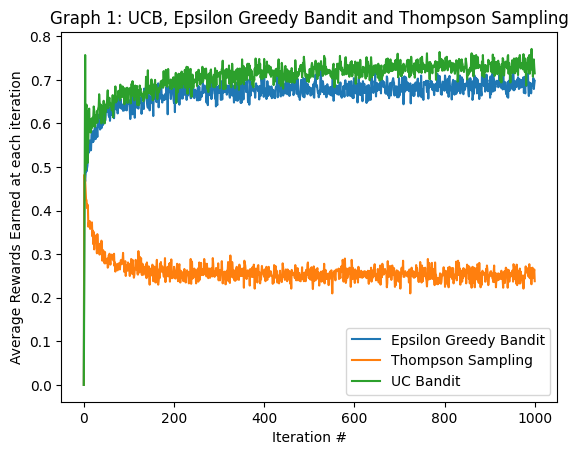
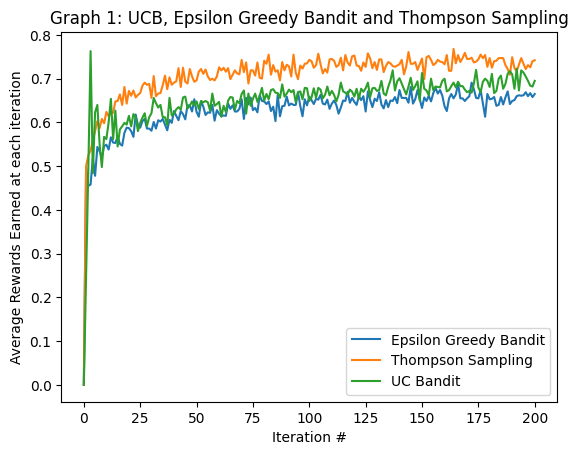
Updated code for A2 part1

diff --git a/A2/RL2.py b/A2/RL2.py
@@ -41,18 +41,19 @@ class RL2:
         Inputs:
         nIterations -- # of arms that are pulled
 
-        Outputs: 
-        empiricalMeans -- empirical average of rewards for each arm (array of |A| entries)
+        Output:
+        rewards_earned -- total rewards earned in each of the iterations (array of |nIterations+1| entries). Entry 0
+        corresponds to 0th iteration, 1 corresponds to 1st iteration, and n+1th entry corresponds to nth iteration
         '''
 
         # temporary values to ensure that the code compiles until this
         # function is coded
-        empiricalMeans = np.zeros(self.mdp.nActions)
+
+        empirical_mean = np.zeros(self.mdp.nActions)
         state = 0
         n_a = np.zeros(self.mdp.nActions)  # Counts current number of times action a is selected.
 
         rewards_earned = np.zeros(nIterations + 1)
-        V = rewards_earned[0]   #Total Reward
 
         for iteration in range(1, (nIterations + 1)):
             epsilon = (1 / iteration)
@@ -60,21 +61,15 @@ class RL2:
             if p < epsilon:
                 action = np.random.randint(self.mdp.nActions)
             else:
-                action = np.argmax(empiricalMeans)
+                action = np.argmax(empirical_mean)
 
-            [reward, nextState] = self.sampleRewardAndNextState(state, action)
-
-            # Updating empirical mean for selected action with new reward
-            previous_total_reward_for_action = (n_a[action] * empiricalMeans[action])
-            updated_total_reward_for_action = (previous_total_reward_for_action + reward)
+            reward, _ = self.sampleRewardAndNextState(state, action)
+            empirical_mean[action] = (((n_a[action] * empirical_mean[action]) + reward) / (n_a[action] + 1))
             n_a[action] = n_a[action] + 1  # updating number of times the selected action was encountered.
-            new_empirical_mean_for_action = updated_total_reward_for_action / n_a[action]
-            empiricalMeans[action] = new_empirical_mean_for_action
-            # print("Updated Empirical Means: " + str(empiricalMeans))
             rewards_earned[iteration] = reward          #Keeping track of reward earned at iteration
-            V += rewards_earned[iteration]
 
-        return empiricalMeans, rewards_earned, V
+        return rewards_earned
+
 
     def thompsonSamplingBandit(self, prior, nIterations, k=1):
         '''Thompson sampling algorithm for Bernoulli bandits (assume no discount factor)
@@ -84,20 +79,19 @@ class RL2:
         nIterations -- # of arms that are pulled
         k -- # of sampled average rewards
 
-        Outputs: 
-        empiricalMeans -- empirical average of rewards for each arm (array of |A| entries)
+        Output:
+        rewards_earned -- total rewards earned in each of the iterations (array of |nIterations+1| entries). Entry 0
+        corresponds to 0th iteration, 1 corresponds to 1st iteration, and n+1th entry corresponds to nth iteration
         '''
 
         # temporary values to ensure that the code compiles until this
         # function is coded
-        empiricalMeans = np.zeros(self.mdp.nActions)
+
         state = 0
         rewards_earned = np.zeros(nIterations + 1)
-        n_a = np.zeros(self.mdp.nActions)  # Counts current number of times action a is selected.
-        V = rewards_earned[0]  # Total Reward
 
         for iteration in range(1, nIterations + 1):
-            R_hat = np.zeros(self.mdp.nActions)
+            empirical_mean = np.zeros(self.mdp.nActions)
             for a in range(self.mdp.nActions):
                 k_sample_rewards_for_action_a = np.random.beta(a=prior[a, 0],
                                                                # Alpha hyperparameter for beta distribution for arm a
@@ -106,26 +100,19 @@ class RL2:
                                                                size=k  # number of sampled average rewards
                                                                )  # Sample k rewards from beta distribution for action a.
 
-                R_hat[a] = np.mean(k_sample_rewards_for_action_a)  # Estimate empirical average of K sample
+                empirical_mean[a] = np.mean(k_sample_rewards_for_action_a)  # Estimate empirical average of K sample
                 # rewards for action a
 
-            action = np.argmax(R_hat)  #choose the best action
-            [reward, nextState] = self.sampleRewardAndNextState(state, action)  #Select the reward for the best action
-
-            # Updating empirical mean for selected action with new reward
-            previous_total_reward_for_action = (n_a[action] * empiricalMeans[action])
-            updated_total_reward_for_action = (previous_total_reward_for_action + reward)
-            n_a[action] = n_a[action] + 1  # updating number of times the selected action was encountered.
-            new_empirical_mean_for_action = updated_total_reward_for_action / n_a[action]
-            empiricalMeans[action] = new_empirical_mean_for_action
-
+            action = np.argmax(empirical_mean)  #choose the best action
+            reward, _ = self.sampleRewardAndNextState(state, action)  #Select the reward for the best action
             rewards_earned[iteration] = reward
-            V += rewards_earned[iteration]
-
-            prior[action, reward] += 1     # Reward always between 0 and 1, we update the prior of the best
+            hyperparameter = (1-reward)  #If reward = 1, hyperparameter = (1-reward) = 0, alpha hyperparameter.
+                                         #If reward = 0, hyperparameter = (1-reward) = 1, beta hyperparameter
+            prior[action, hyperparameter] += 1     # Reward always between 0 and 1, we update the prior of the best
             # action based on the reward
 
-        return empiricalMeans, rewards_earned, V
+        return rewards_earned
+
 
     def UCBbandit(self, nIterations):
         '''Upper confidence bound algorithm for bandits (assume no discount factor)
@@ -133,35 +120,25 @@ class RL2:
         Inputs:
         nIterations -- # of arms that are pulled
 
-        Outputs: 
-        empiricalMeans -- empirical average of rewards for each arm (array of |A| entries)
+        Output:
+        rewards_earned -- total rewards earned in each of the iterations (array of |nIterations+1| entries). Entry 0
+        corresponds to 0th iteration, 1 corresponds to 1st iteration, and n+1th entry corresponds to nth iteration
         '''
 
-        # temporary values to ensure that the code compiles until this
-        # function is coded
-        empiricalMeans = np.zeros(self.mdp.nActions)
+
+        empirical_mean = np.zeros(self.mdp.nActions)
         state = 0
         n_a = np.zeros(self.mdp.nActions)  # Counts current number of times action a is selected.
-
         rewards_earned = np.zeros(nIterations + 1)
-        V = rewards_earned[0]  # Total Reward
-
         epsilon = (10 ** -8)  # To avoid overflow issues.
 
         for iteration in range(1, nIterations + 1):
             n = iteration#(iteration-1)+epsilon
-            action = np.argmax((empiricalMeans + (np.sqrt(2 * np.log(n) / (n_a + epsilon)))))
-
-            [reward, nextState] = self.sampleRewardAndNextState(state, action)
-
-            # Updating empirical mean for selected action with new reward
-            previous_total_reward_for_action = (n_a[action] * empiricalMeans[action])
-            updated_total_reward_for_action = (previous_total_reward_for_action + reward)
+            action = np.argmax((empirical_mean + (np.sqrt(2 * np.log(n) / (n_a + epsilon)))))
+            reward, _ = self.sampleRewardAndNextState(state, action)
+            empirical_mean[action] = (((n_a[action] * empirical_mean[action]) + reward)/(n_a[action]+1))
             n_a[action] = n_a[action] + 1  # updating number of times the selected action was encountered.
-            new_empirical_mean_for_action = updated_total_reward_for_action / n_a[action]
-            empiricalMeans[action] = new_empirical_mean_for_action
-            # print("Updated Empirical Means: " + str(empiricalMeans))
             rewards_earned[iteration] = reward
-            V += rewards_earned[iteration]
 
-        return empiricalMeans, rewards_earned, V
+        return rewards_earned
+

diff --git a/A2/TestBandit.py b/A2/TestBandit.py
@@ -1,7 +1,6 @@
 import numpy as np
 import MDP
 import RL2
-import matplotlib.pyplot as plt
 
 
 def sampleBernoulli(mean):
@@ -14,68 +13,28 @@ def sampleBernoulli(mean):
     sample -- sample (0 or 1)
     '''
 
-    if np.random.rand(1) < mean:
-        return 1
-    else:
-        return 0
+    if np.random.rand(1) < mean: return 1
+    else: return 0
 
 
 # Multi-arm bandit problems (3 arms with probabilities 0.25, 0.5 and 0.75)
-T = np.array([[[1]], [[1]], [[1]]])
-R = np.array([[0.25], [0.5], [0.75]])
+T = np.array([[[1]],[[1]],[[1]]])
+R = np.array([[0.25],[0.5],[0.75]])
 discount = 0.999
-mdp = MDP.MDP(T, R, discount)
-banditProblem = RL2.RL2(mdp, sampleBernoulli)
+mdp = MDP.MDP(T,R,discount)
+banditProblem = RL2.RL2(mdp,sampleBernoulli)
 
+# Test epsilon greedy strategy
+empiricalMeans,_,_ = banditProblem.epsilonGreedyBandit(nIterations=100000)
+print("\nepsilonGreedyBandit results")
+print(empiricalMeans)
 
-fig = plt.figure()
-plt.title("Graph 1: UCB, Epsilon Greedy Bandit and Thompson Sampling")
-plt.xlabel("Iteration #")
-plt.ylabel("Average Rewards Earned at each iteration")
+# Test Thompson sampling strategy
+empiricalMeans,_,_ = banditProblem.thompsonSamplingBandit(prior=np.ones([mdp.nActions,2]),nIterations=100000)
+print("\nthompsonSamplingBandit results")
+print(empiricalMeans)
 
-#Epsilon greedy strategy Graph Generation
-TRIALS = 1000
-N_ITERATIONS = 200
-
-average_rewards = None
-for i in range(1,(TRIALS+1)):
-    empiricalMeans, rewards, V = banditProblem.epsilonGreedyBandit(nIterations=N_ITERATIONS)
-    if average_rewards is None:
-        average_rewards = rewards
-    else:
-        average_rewards = (((average_rewards * (i-1)) + rewards) / i)
-
-plt.plot(range(len(average_rewards)), average_rewards, label= "Epsilon Greedy Bandit")
-
-#thompsonSamplingBandit Graph generation
-
-average_rewards = None
-for i in range(1,(TRIALS+1)):
-    empiricalMeans, rewards, V = banditProblem.thompsonSamplingBandit(prior=np.ones([mdp.nActions,2]),nIterations=N_ITERATIONS)
-    if average_rewards is None:
-        average_rewards = rewards
-    else:
-        average_rewards = (((average_rewards * (i-1)) + rewards) / i)
-
-plt.plot(range(len(average_rewards)), average_rewards, label= "Thompson Sampling")
-
-#UC Bandit Graph generation
-
-average_rewards = None
-for i in range(1,(TRIALS+1)):
-    empiricalMeans, rewards, V = banditProblem.UCBbandit(nIterations=N_ITERATIONS)
-    if average_rewards is None:
-        average_rewards = rewards
-    else:
-        average_rewards = (((average_rewards * (i-1)) + rewards) / i)
-
-#Generates log curve
-plt.plot(range(len(average_rewards)), average_rewards, label= "UC Bandit")
-
-
-plt.legend(loc='best')
-plt.savefig('A2_Part1.png', bbox_inches='tight')
-plt.show()
-plt.close()
-plt.cla()
-plt.clf()
+# Test UCB strategy
+empiricalMeans,_,_ = banditProblem.UCBbandit(nIterations=100000)
+print("\nUCBbandit results")
+print(empiricalMeans)

diff --git a/A2/TestBandit_GraphGen.py b/A2/TestBandit_GraphGen.py
@@ -1,0 +1,81 @@
+import numpy as np
+import MDP
+import RL2
+import matplotlib.pyplot as plt
+
+
+def sampleBernoulli(mean):
+    ''' function to obtain a sample from a Bernoulli distribution
+
+    Input:
+    mean -- mean of the Bernoulli
+    
+    Output:
+    sample -- sample (0 or 1)
+    '''
+
+    if np.random.rand(1) < mean:
+        return 1
+    else:
+        return 0
+
+
+# Multi-arm bandit problems (3 arms with probabilities 0.25, 0.5 and 0.75)
+T = np.array([[[1]], [[1]], [[1]]])
+R = np.array([[0.25], [0.5], [0.75]])
+discount = 0.999
+mdp = MDP.MDP(T, R, discount)
+banditProblem = RL2.RL2(mdp, sampleBernoulli)
+
+
+fig = plt.figure()
+plt.title("Graph 1: UCB, Epsilon Greedy Bandit and Thompson Sampling")
+plt.xlabel("Iteration #")
+plt.ylabel("Average Rewards Earned at each iteration")
+
+#Epsilon greedy strategy Graph Generation
+TRIALS = 1000
+N_ITERATIONS = 200
+
+average_rewards = None
+for i in range(1,(TRIALS+1)):
+    rewards = banditProblem.epsilonGreedyBandit(nIterations=N_ITERATIONS)
+    if average_rewards is None:
+        average_rewards = rewards
+    else:
+        average_rewards = (((average_rewards * (i-1)) + rewards) / i)
+
+plt.plot(range(len(average_rewards)), average_rewards, label= "Epsilon Greedy Bandit")
+
+#thompsonSamplingBandit Graph generation
+
+average_rewards = None
+for i in range(1,(TRIALS+1)):
+    rewards = banditProblem.thompsonSamplingBandit(prior=np.ones([mdp.nActions,2]),nIterations=N_ITERATIONS)
+    if average_rewards is None:
+        average_rewards = rewards
+    else:
+        average_rewards = (((average_rewards * (i-1)) + rewards) / i)
+
+plt.plot(range(len(average_rewards)), average_rewards, label= "Thompson Sampling")
+
+#UC Bandit Graph generation
+
+average_rewards = None
+for i in range(1,(TRIALS+1)):
+    rewards = banditProblem.UCBbandit(nIterations=N_ITERATIONS)
+    if average_rewards is None:
+        average_rewards = rewards
+    else:
+        average_rewards = (((average_rewards * (i-1)) + rewards) / i)
+
+#Generates log curve
+plt.plot(range(len(average_rewards)), average_rewards, label= "UC Bandit")
+
+
+plt.legend(loc='best')
+plt.savefig('A2_Part1.png', bbox_inches='tight')
+plt.show()
+plt.close()
+plt.cla()
+plt.clf()
